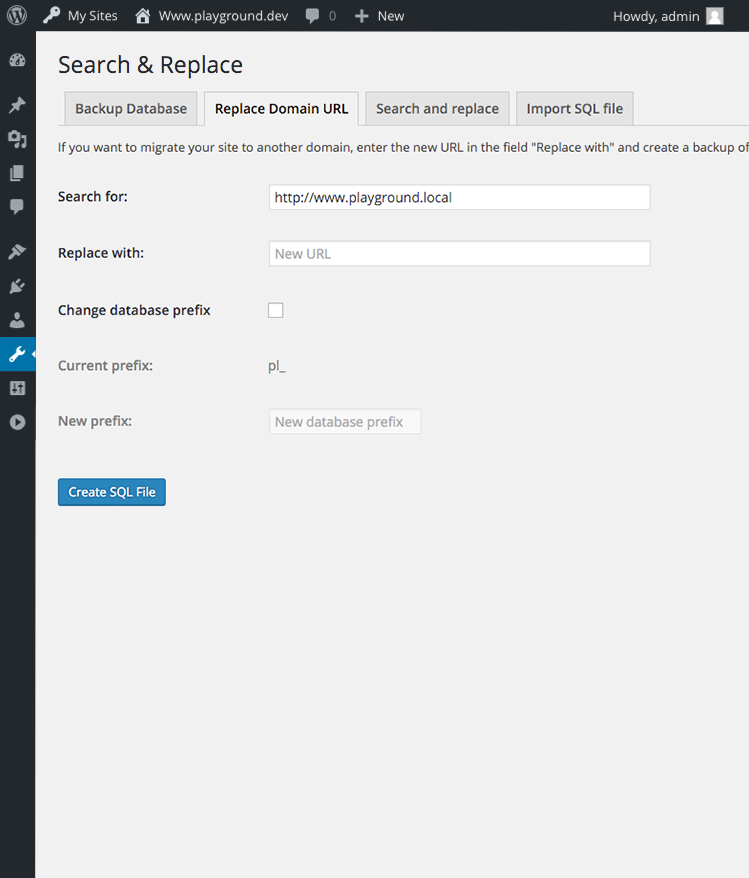
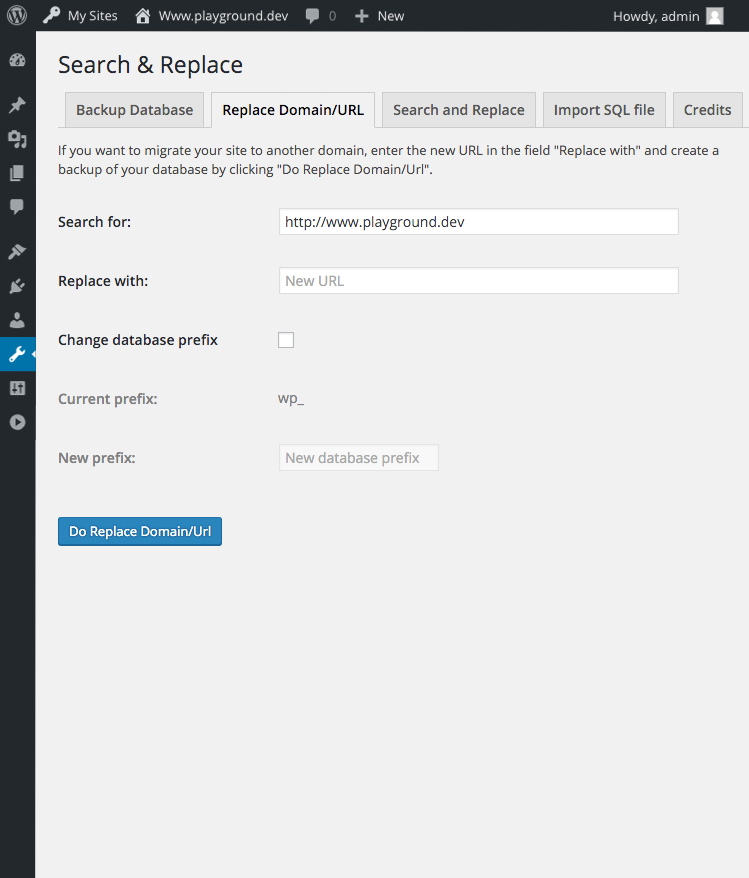
remove difference in wordings for buttons between and descriptions #46

Changed region(s): [[0.0614, 0.0923, 1.0, 0.6458], [0.3685, 0.4305, 0.522, 0.5535], [0.522, 0.492, 0.5527, 0.5228]]

diff --git a/src/inc/templates/replace_domain.php b/src/inc/templates/replace_domain.php
@@ -20,7 +20,7 @@ if ( ! defined( 'INSR_DIR' ) ) {
 		<a class="nav-tab" href="<?php echo admin_url() ?>tools.php?page=credits"><?php esc_html_e( 'Credits', 'search-and-replace' ); ?></a>
 	</h2>
 
-	<p><?php esc_html_e( 'If you want to migrate your site to another domain, enter the new URL in the field "Replace with" and create a backup of your database by clicking "Create SQL File".',
+	<p><?php esc_html_e( 'If you want to migrate your site to another domain, enter the new URL in the field "Replace with" and create a backup of your database by clicking "Do Replace Domain/Url".',
 	             'search-and-replace' ); ?> </p>
 
 	<form action="" method="post">

diff --git a/src/inc/ReplaceDomainAdmin.php b/src/inc/ReplaceDomainAdmin.php
@@ -35,7 +35,7 @@ class ReplaceDomainAdmin extends Admin {
 
 		$html = '<input type="hidden" name="action" value="replace_domain" />';
 		echo $html;
-		submit_button( esc_attr__( 'Do Search & Replace', 'search-and-replace' ) );
+		submit_button( esc_attr__( 'Do Replace Domain/Url', 'search-and-replace' ) );
 
 	}
 
